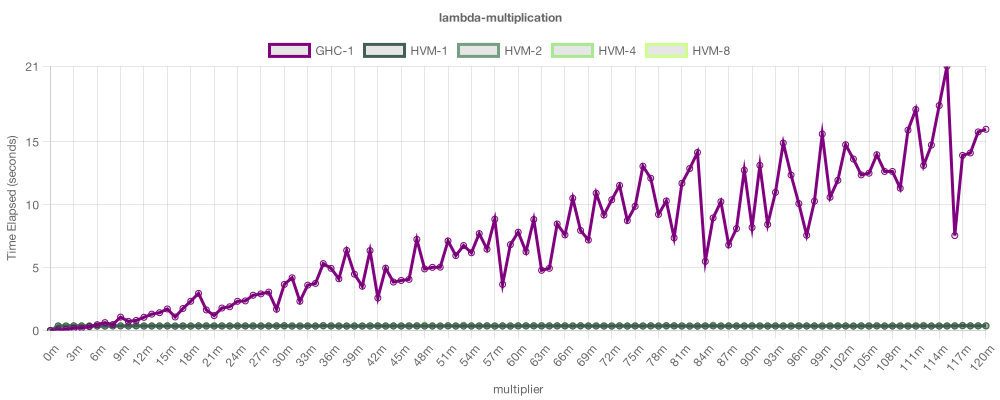
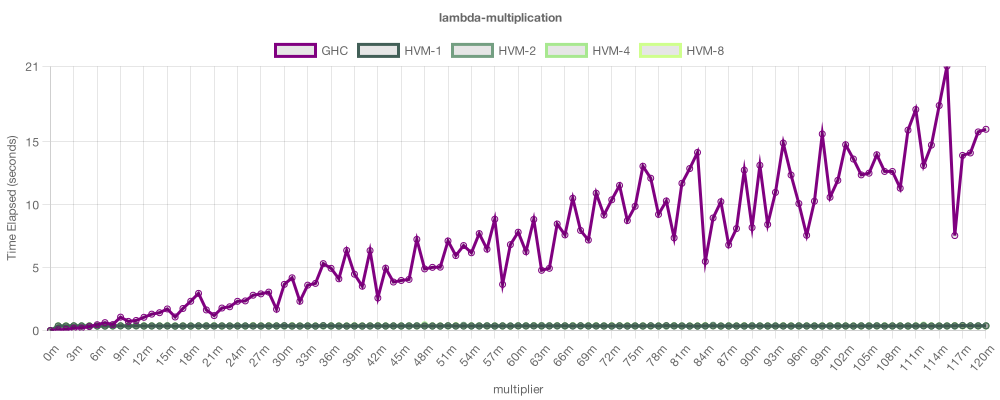
Update charts

diff --git a/bench/gencharts.js b/bench/gencharts.js
@@ -26,7 +26,7 @@ var label_format = {
 }
 
 var lang_color = {
-  "GHC-1": "purple",
+  "GHC": "purple",
   "HVM-1": "#425F57",
   "HVM-2": "#749F82",
   "HVM-4": "#A8E890",
